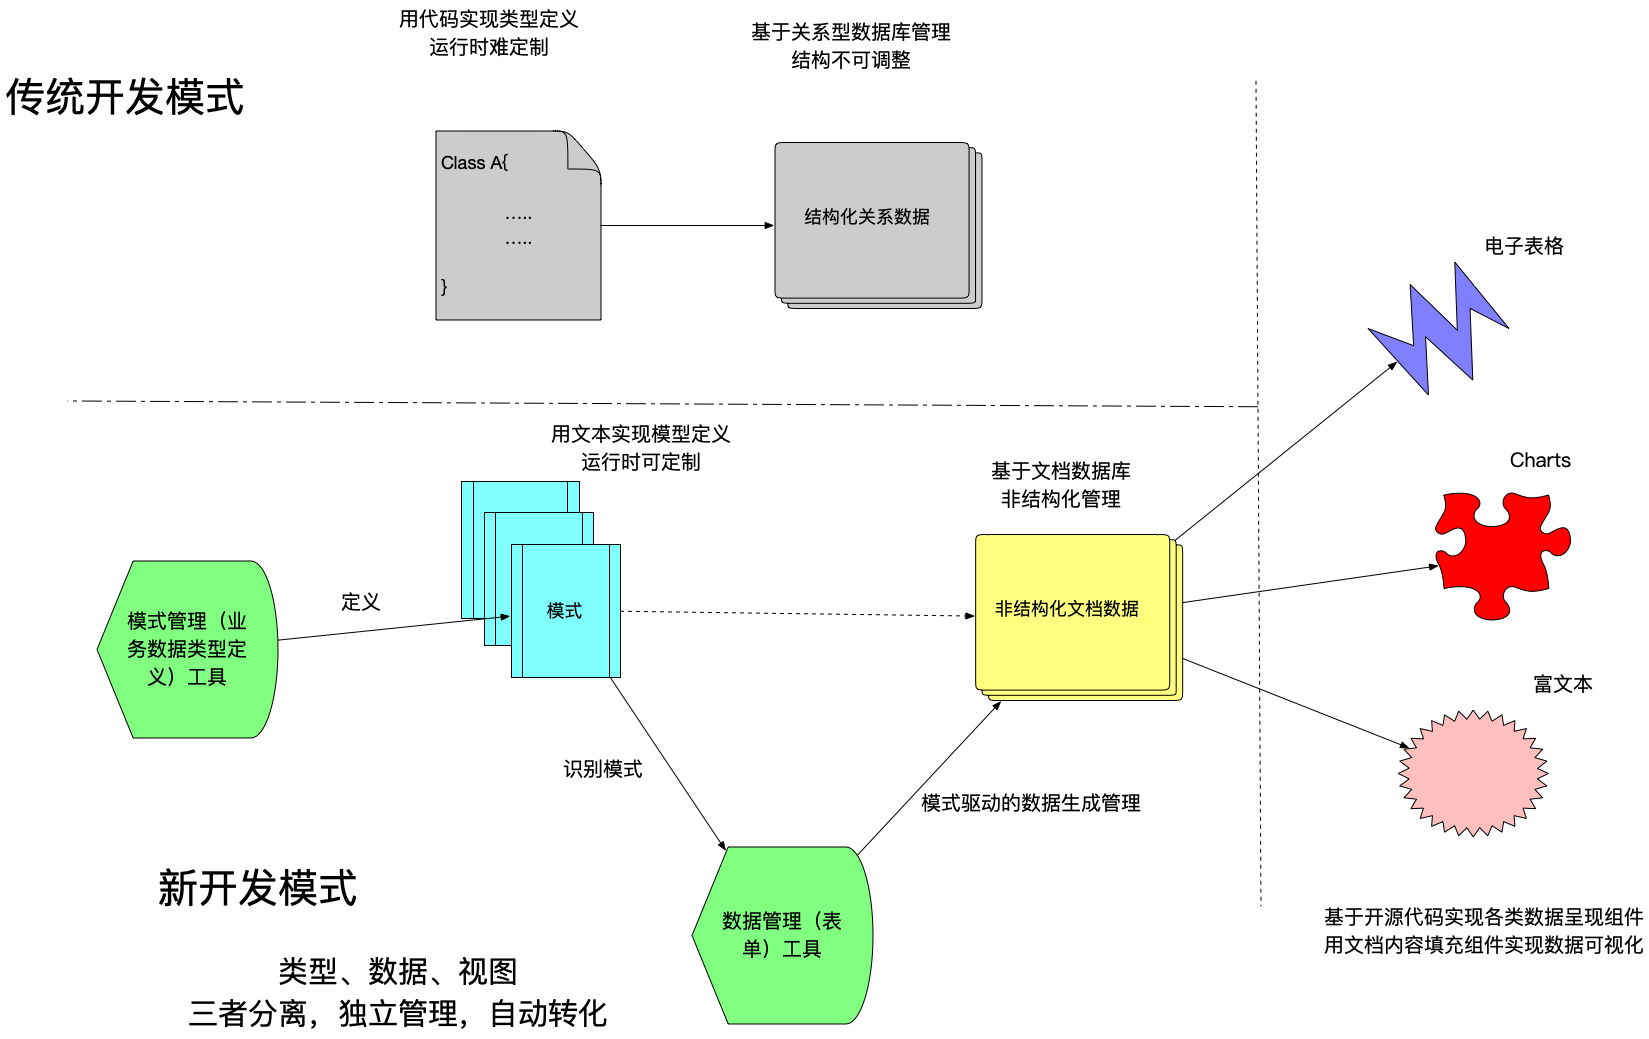
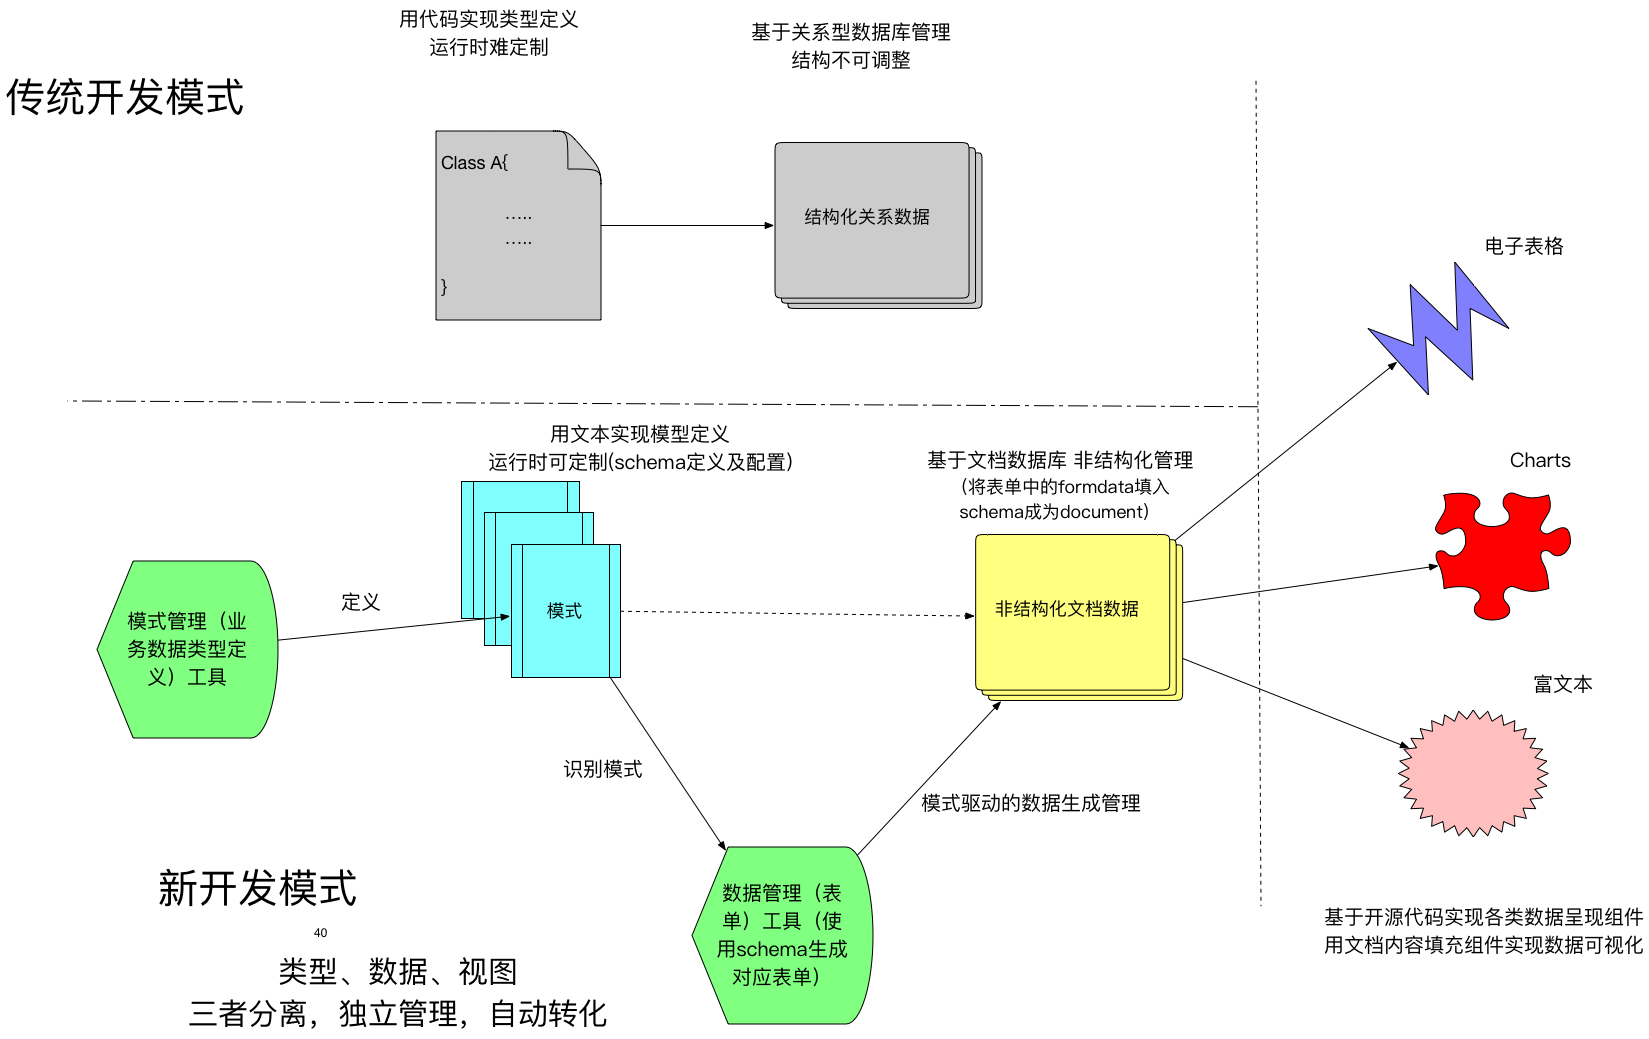
update img

diff --git a/source/_posts/Leasing/Project.md b/source/_posts/Leasing/Project.md
@@ -36,6 +36,12 @@ date: 2019-09-24 15:34:04
 - 调整schema editor的内部结构，使自定义新类型可以完全通过外部配置实现，撰写部分开发文档（ToMo）
 - 实现minio的环境搭建，将前后端对接（预备役木匠）
 
-#### 2019-09-29
+#### 2019-09-30
+
+- 租金计算表后端部分重构完成，schema和document初步重构（春葱）
+- 调整schema editor代码，使编辑器可以从schema definition中直接获取自定义schema（ToMo）
+- 修复租赁物管理部分bug（预备役木匠）
+
+#### 2019-10
 
 待补充...
